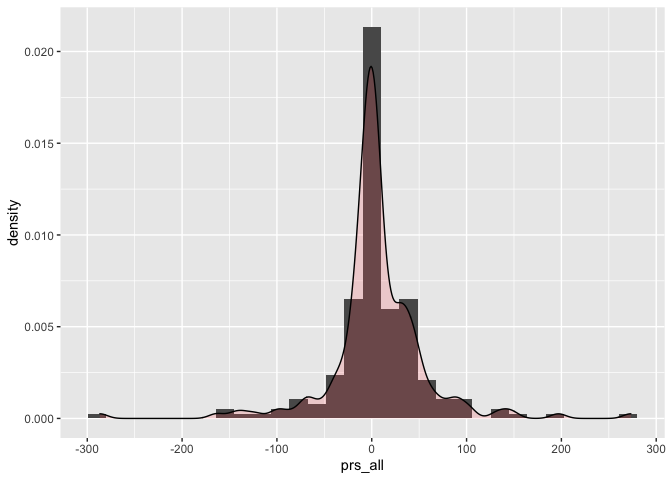
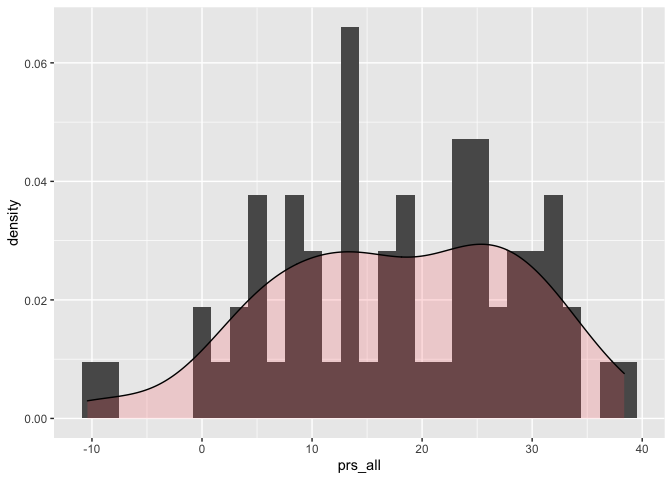
last 2 questions

diff --git a/Assignment_7.md b/Assignment_7.md
@@ -256,8 +256,10 @@ max(chr_info$MAF)
 
 ``` r
 # highest allele frequency is 0.5
-# minor alleles should not comprise more than half the total population,
-# as they would no longer be minor allele frequencies.
+# The value of 0.5 makes sense because the minor allele frequency is supposed 
+# represent the frequency of the allele that is nor present in the majority of 
+# individuals. Therefore, the highest the minor allele frequency could ever be 
+# is 0.5. 
 ```
 
 # Polygenic Scores (PGS)
@@ -299,29 +301,24 @@ mini_tapas <- read.table("MiniCohort_Tapas_SNPdosages.txt", header = TRUE)
 #?# Include your rationale and the documented code you used - 5pt
 
 # get number of individuals and initilize empty list
-prs_all <- list()
+mini_tapas_effect <- mini_tapas # assign original dataframe to one that can be manipulated
 
-for (snp in tapas_enjoy$SNP) { #iterate through each snp with effect size
-  effect_size <- tapas_enjoy$Effect_Size[tapas_enjoy$SNP == snp] # get effectsize value corresponding to the snp
+for (snp in tapas_enjoy$SNP) { #iterate through each SNP with an effect size
+  effect_size <- tapas_enjoy$Effect_Size[tapas_enjoy$SNP == snp] # pull effect size
   
-  if (snp %in% colnames(mini_tapas)) { # check if snp is in the columns of the tapas dosage dataframe
-    dosage <- list(mini_tapas[[snp]]) # pull all dosage values based on queried snp
-    
-    for (dose in dosage){ # calculate effect * dose for each sample
-      effect_by_dose <- dose * effect_size
-    }
-
-    prs_add_value <- sum(effect_by_dose) # get sum of all effect by dose values to calc prs
-    prs_all <- append(prs_all, list(prs_add_value )) #add all prs to list
-    
+  if (snp %in% colnames(mini_tapas)) { # check if SNP in mini_tapas
+    colno <- which(colnames(mini_tapas) %in% snp) # get the column index that matches the SNP
+    mini_tapas_effect[colno] <- mini_tapas[colno] * effect_size # multiply each dosage by the effect size corresponding to a given snp
   }
   
   else {
     print("No Match")
   }
+  
 }
 
-prs_all <- unlist(prs_all, recursive = FALSE) # formatting of list
+prs_all <- rowSums(mini_tapas_effect[,3:201]) # compute sums of dosage * effect_size for each sample 
+prs_df <- data.frame(prs_all, mini_tapas_effect$IID) # make dataframe prs corresponding to each sample
 
 
 #?# Use ggplot to plot the distribution of the Tapas PGS: - 2 pt
@@ -337,8 +334,7 @@ ggplot(data = prs_df, mapping = aes(x = prs_all)) +
 
 ``` r
 #?# What is the distribution of the tapas PGS? - 1pt
-# appears to follow a somewhat normal distribution (wouldn't really say bimodal
-#cause the dip is very small)
+# appears to follow a somewhat a somewhat bimodal distribution.
 ```
 
 ## PGS accuracy
@@ -348,8 +344,39 @@ ggplot(data = prs_df, mapping = aes(x = prs_all)) +
 ## This tapas likability is captured in the "Tapas_enjoyability" column of the -MiniCohort_Tapas_SNPdosages.txt- file. 
 #?# Make a scatterplot with a linear regression line, where x is the Tapas-PGS and y is their actual Tapas enjoyability - 2 pt
 ## Tip: http://www.sthda.com/english/wiki/ggplot2-scatter-plots-quick-start-guide-r-software-and-data-visualization
+mini_tapas_effect$prs <- prs_df$prs_all
+
+ggplot(data = mini_tapas_effect, mapping = aes (x = prs, y = Tapas_enjoyability)) + 
+  geom_point() +
+  geom_smooth(method=lm)
+```
+
+    ## `geom_smooth()` using formula 'y ~ x'
+
+![](Assignment_7_files/figure-gfm/unnamed-chunk-8-1.png)<!-- -->
+
+``` r
 #?# What is the correlation coefficient between the PGS and Tapas enjoyability? Is Spearman or Pearson correlation more appropriate here? Why? - 3 pt
+# in this case we should use the Pearson correlation. Pearson correlation evaluates 
+# the linear relationship between two continuous variables. Also for the data 
+# we are working with, we can make the assumption that the higher the prs, the
+# higher the Tapas enjoyment, which is a linear relationship.
+
+p_cor <- cor(x = mini_tapas_effect$prs, y = mini_tapas_effect$Tapas_enjoyability, method = "pearson")
+p_cor
+```
+
+    ## [1] 0.1409448
+
+``` r
 #?# How predictive is the PGS for tapas preference? Include in your answer why do you think it is/isn't accurate and what could affect its predicitvity - 2pt 
+
+# with a pearson correlation value of 0.14, PGS is not really predictive of tapas
+# preference. There are many things that could affect the predictivity, as taste
+# enjoyment can be very subjective among individuals. Additionally, the results
+# may be influenced by that fact that there is very small number of samples 
+# that are used in the analysis (63). It could be the case that more samples would
+# improve the overall statistical power of the analysis. 
 ```
 
 # Authors and contributions
